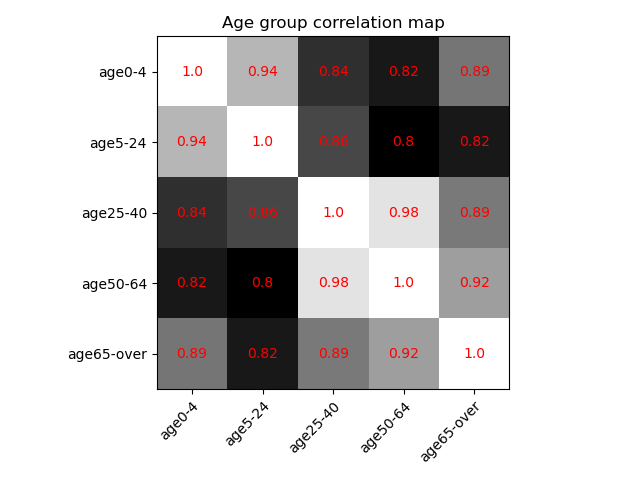
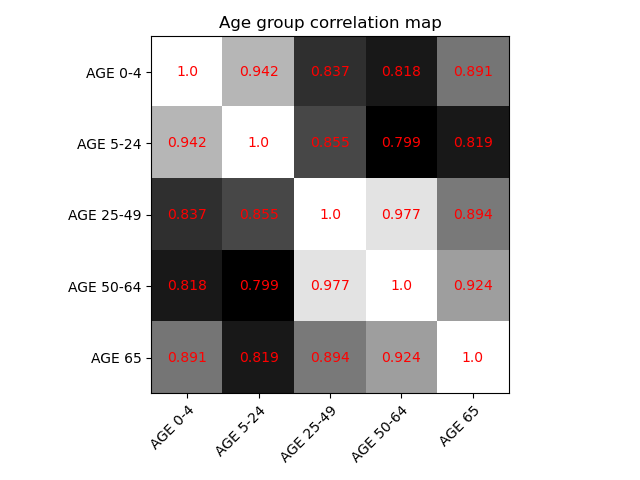
Region correlation.

diff --git a/cross_correlation.py b/cross_correlation.py
@@ -20,11 +20,11 @@ for i in range(1, len(temperature)):
         i - 1]) / patients_monthly[i - 1]
 
 age_groups = {
-    'age0-4': data_by_region(REGION, 'AGE 0-4', RANGE),
-    'age5-24': data_by_region(REGION, 'AGE 5-24', RANGE),
-    'age25-40': data_by_region(REGION, 'AGE 25-49', RANGE),
-    'age50-64': data_by_region(REGION, 'AGE 50-64', RANGE),
-    'age65-over': data_by_region(REGION, 'AGE 65', RANGE),
+    'AGE 0-4': data_by_region(REGION, 'AGE 0-4', RANGE),
+    'AGE 5-24': data_by_region(REGION, 'AGE 5-24', RANGE),
+    'AGE 25-49': data_by_region(REGION, 'AGE 25-49', RANGE),
+    'AGE 50-64': data_by_region(REGION, 'AGE 50-64', RANGE),
+    'AGE 65': data_by_region(REGION, 'AGE 65', RANGE),
 }
 
 corr_heatmap = np.zeros((len(age_groups), len(age_groups)))
@@ -37,6 +37,34 @@ for group1 in age_groups.keys():
         corr_heatmap[
             np.where(np.array(list(age_groups.keys())) == group1)[0][0],
             np.where(np.array(list(age_groups.keys())) == group2)[0][0]
+        ] = max(cross_correlation)
+
+regions = {
+    'New England': data_by_region('New England', 'TOTAL PATIENTS', RANGE),
+    'Mid-Atlantic': data_by_region('Mid-Atlantic', 'TOTAL PATIENTS', RANGE),
+    'East North Central': data_by_region('East North Central', 'TOTAL PATIENTS',
+                                         RANGE),
+    'West North Central': data_by_region('West North Central', 'TOTAL PATIENTS',
+                                         RANGE),
+    'South Atlantic': data_by_region('South Atlantic', 'TOTAL PATIENTS', RANGE),
+    'East South Central': data_by_region('East South Central', 'TOTAL PATIENTS',
+                                         RANGE),
+    'West South Central': data_by_region('West South Central', 'TOTAL PATIENTS',
+                                         RANGE),
+    'Mountain': data_by_region('Mountain', 'TOTAL PATIENTS', RANGE),
+    'Pacific': data_by_region('Pacific', 'TOTAL PATIENTS', RANGE),
+}
+
+region_heatmap = np.zeros((len(regions), len(regions)))
+for group1 in regions.keys():
+    for group2 in regions.keys():
+        cross_correlation = np.correlate(
+            regions[group1] / np.linalg.norm(regions[group1]),
+            regions[group2] / np.linalg.norm(regions[group2]),
+            'full')
+        region_heatmap[
+            np.where(np.array(list(regions.keys())) == group1)[0][0],
+            np.where(np.array(list(regions.keys())) == group2)[0][0]
         ] = max(cross_correlation)
 
 if PLOT:
@@ -85,7 +113,6 @@ if PLOT:
 
     fig, ax = plt.subplots()
     im = ax.imshow(corr_heatmap, cmap='gray')
-
     ax.set_xticks(np.arange(len(age_groups)))
     ax.set_yticks(np.arange(len(age_groups)))
     ax.set_xticklabels(list(age_groups.keys()))
@@ -94,10 +121,28 @@ if PLOT:
              rotation_mode="anchor")
     for i in range(len(age_groups.keys())):
         for j in range(len(age_groups.keys())):
-            text = ax.text(j, i, round(corr_heatmap[i, j], 2),
+            text = ax.text(j, i, round(corr_heatmap[i, j], 3),
                            ha="center", va="center", color="r")
     ax.set_title("Age group correlation map")
     fig.tight_layout()
     if SAVEFIG:
         plt.savefig('12')
+
+    fig, ax = plt.subplots()
+    im = ax.imshow(region_heatmap, cmap='gray')
+    ax.set_xticks(np.arange(len(regions)))
+    ax.set_yticks(np.arange(len(regions)))
+    ax.set_xticklabels(list(regions.keys()))
+    ax.set_yticklabels(list(regions.keys()))
+    plt.setp(ax.get_xticklabels(), rotation=45, ha="right",
+             rotation_mode="anchor")
+    for i in range(len(regions.keys())):
+        for j in range(len(regions.keys())):
+            text = ax.text(j, i, round(region_heatmap[i, j], 2),
+                           ha="center", va="center", color="r")
+    ax.set_title("Region correlation map")
+    fig.tight_layout()
+    if SAVEFIG:
+        plt.savefig('13')
+
     plt.show()

diff --git a/influenza.py b/influenza.py
@@ -10,8 +10,8 @@ RANGE = [14, -3]  # from 1998-01 to 2014-12
 FIT_ORDER = 10
 
 data = pd.read_csv(FILE, skiprows=1)
-data = data[data['REGION'] == REGION][RANGE[0]:RANGE[1]]
 # print(data['REGION'].unique())
+data = data[data['REGION'] == REGION][RANGE[0]:RANGE[1]]
 
 total_patients = data['TOTAL PATIENTS'].to_numpy()
 week = np.arange(len(total_patients))
